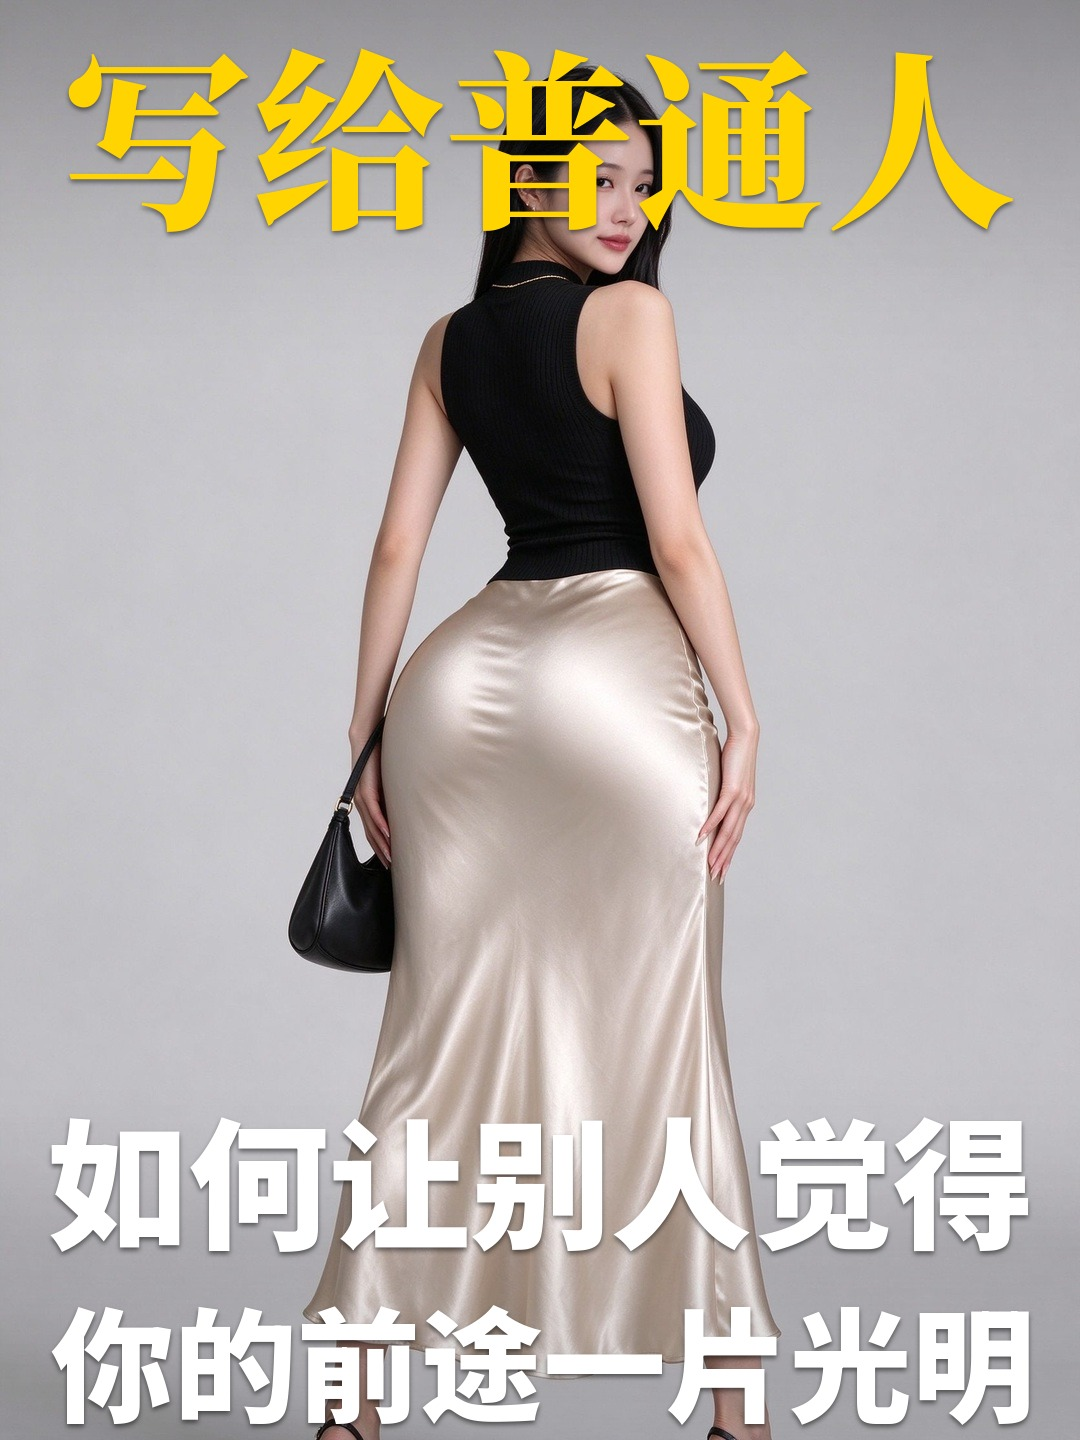
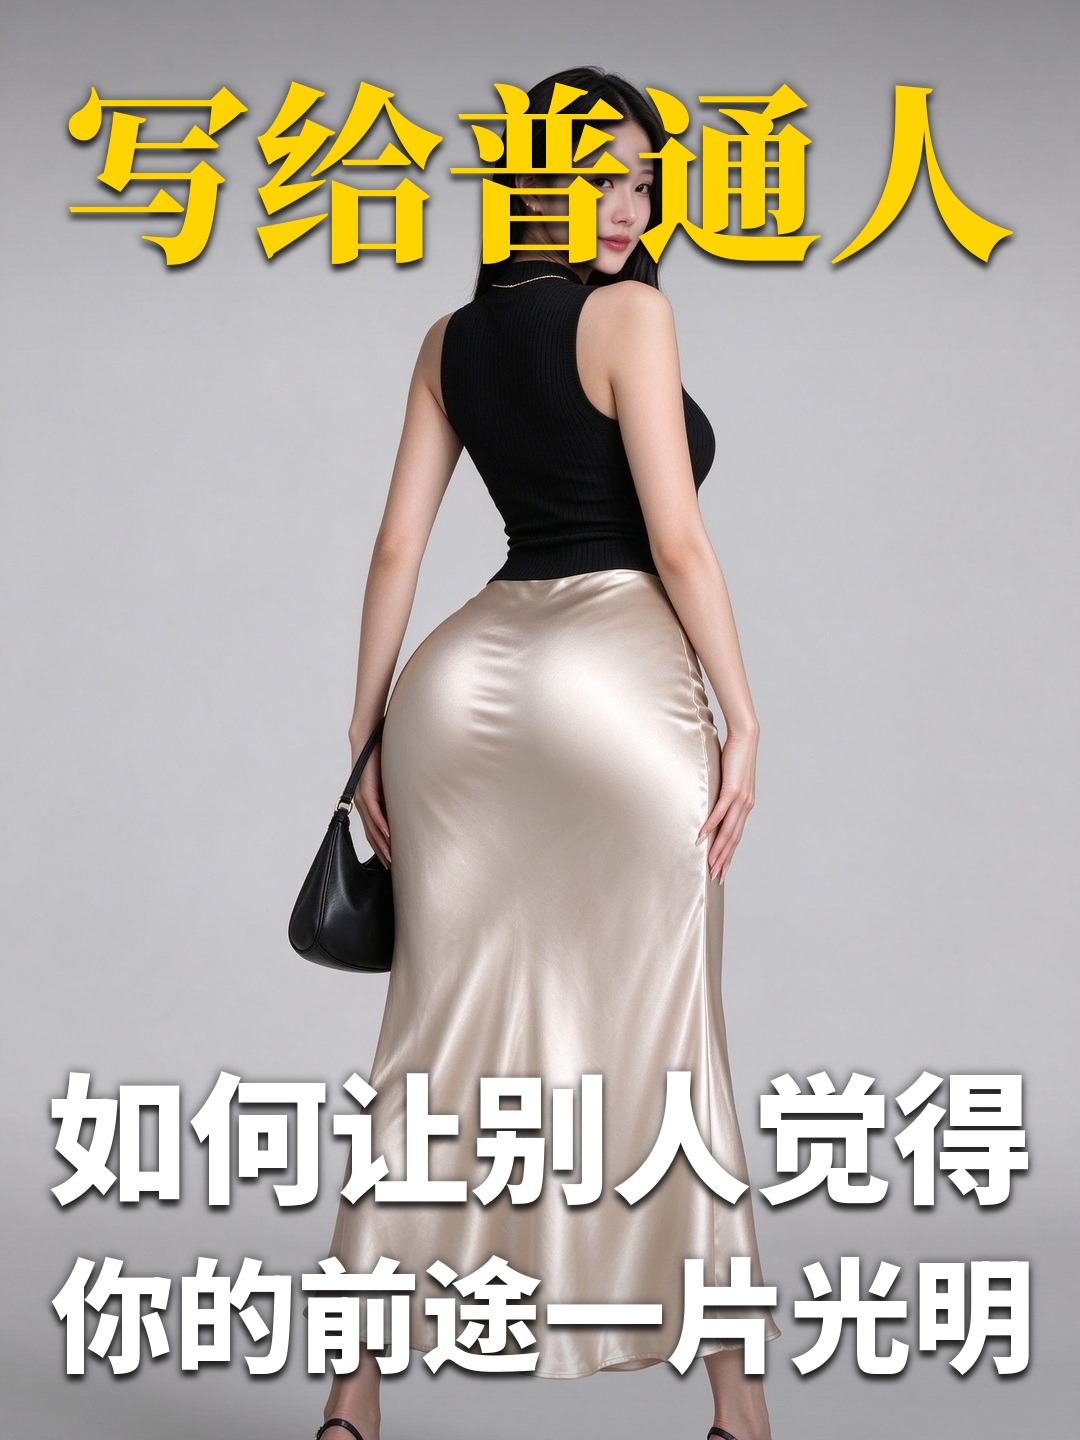
fix: 样式02 上下边距放宽 + 文字改双层阴影
- 顶行顶边距 0.0335 H → 0.056 H，末行底边距 0.0106 H → 0.045 H（原来底边只留 15px，贴边难受）
- 底行行间空隙 0.037 H → 0.034 H，配合边距调整保持底块整体重心
- 阴影从单层硬投影改为双层：
  ① 暗晕（形态学膨胀 0.0035 W + 模糊 0.004 W，黑 100/255，无偏移）——贴笔画外沿，把字从任何底色上托出来
  ② 实影（下移 0.005 H，模糊 0.003 W，黑 185/255）——给字厚度
- 关键：光晕必须先膨胀再模糊，且模糊半径小于笔画间隙（4px @1080），否则 192px 宋体的字内缝会被灰雾填平
- 同步更新风格卡参数与踩坑记录、README 设计常量
- 重出 02 展示图与 all-styles 总览

Changed region(s): [[0.0306, 0.7188, 0.9778, 1.0], [0.0611, 0.0312, 0.9472, 0.1875]]

diff --git a/tools/style02_edge_anchor.py b/tools/style02_edge_anchor.py
@@ -9,10 +9,10 @@
 设计常量（相对画布 W / H 的比例，换画布也成立）
   顶行目标宽   0.875 W       ← 硬约束：顶行墨迹宽度，与文案长短无关
   底行目标宽   0.905 W       ← 硬约束：底部每行墨迹宽度
-  顶行顶边距   0.0335 H      ← 墨迹顶边到画布顶
-  底行底边距   0.0106 H      ← 末行墨迹底边到画布底
-  底行行间空隙 0.037 H       ← 上一行墨迹底 → 下一行墨迹顶
-  投影         黑 130/255，偏移 0.0021 H，模糊 0.0022 W（硬投影，不加灰雾）
+  顶行顶边距   0.056 H       ← 墨迹顶边到画布顶（不贴边）
+  底行底边距   0.045 H       ← 末行墨迹底边到画布底（不贴边）
+  底行行间空隙 0.034 H       ← 上一行墨迹底 → 下一行墨迹顶
+  投影         双层：扩散影（膨胀 0.0035 W + 模糊 0.004 W，黑 125/255）+ 厚度影（下移 0.0042 H，模糊 0.0035 W，黑 170/255）
   遮罩         --scrim auto：按上下带亮度自动压 0-120 的黑渐变，浅底必压、深底不压
 
 字体分工（照抄参考图）
@@ -45,9 +45,9 @@ BOT_FONTS = {
 
 TOP_W = 0.875          # 顶行墨迹宽 / 画布宽
 BOT_W = 0.905          # 底行墨迹宽 / 画布宽
-TOP_INSET = 0.0335     # 顶行墨迹顶边距 / 画布高
-BOT_INSET = 0.0106     # 末行墨迹底边距 / 画布高
-BOT_GAP = 0.037        # 底行行间空隙 / 画布高
+TOP_INSET = 0.0560     # 顶行墨迹顶边距 / 画布高（留够呼吸，不贴边）
+BOT_INSET = 0.0450     # 末行墨迹底边距 / 画布高（留够呼吸，不贴边）
+BOT_GAP = 0.034        # 底行行间空隙 / 画布高
 
 MIN_SIZE = 0.055       # 字号下限 / 画布宽
 MAX_SIZE = 0.300       # 字号上限 / 画布宽
@@ -55,9 +55,12 @@ MAX_SIZE = 0.300       # 字号上限 / 画布宽
 ACCENT = '#FFD400'     # 与样式01 同色：黄做钩子
 INK = '#FFFFFF'        # 白做结论
 
-SHADOW_ALPHA = 130
-SHADOW_DY = 0.0021      # 偏移 / 画布高
-SHADOW_BLUR = 0.0022    # 模糊 / 画布宽
+SHADOW_ALPHA = 185     # 厚度影：向下偏的实影
+SHADOW_DY = 0.0050     # 偏移 / 画布高
+SHADOW_BLUR = 0.0030   # 模糊 / 画布宽
+HALO_ALPHA = 100       # 扩散影：无偏移的柔和暗晕，任何底图上都能把字托出来
+HALO_BLUR = 0.0040     # 模糊 / 画布宽（必须小于笔画间隙，否则字内缝会被糊死）
+HALO_DILATE = 0.0035   # 先膨胀再模糊：光晕贴着笔画外沿走，不外溢
 
 
 def hex2rgba(h, alpha=255):
@@ -293,12 +296,21 @@ def render(base, out, split=None, top=None, bottom=None,
 
     if shadow:
         alpha = stage.getchannel('A')
+        # ① 扩散影：按字形轮廓向外糊一圈柔和暗晕，浅底/花底都能把字托出来
+        halo = Image.new('RGBA', (W, H), (0, 0, 0, 0))
+        halo.paste((0, 0, 0, HALO_ALPHA), (0, 0), alpha)
+        # 先小膨胀再模糊：光晕紧贴笔画外沿，不会往字内的笔画缝里灌
+        dil = max(3, int(round(W * HALO_DILATE)) | 1)
+        halo = halo.filter(ImageFilter.MaxFilter(min(dil, 9)))
+        halo = halo.filter(ImageFilter.GaussianBlur(max(1.5, W * HALO_BLUR)))
+        img = Image.alpha_composite(img, halo)
+        # ② 厚度影：向下偏移的实影，给字一点压出来的重量
         sil = Image.new('RGBA', (W, H), (0, 0, 0, 0))
         sil.paste((0, 0, 0, SHADOW_ALPHA), (0, 0), alpha)
         sh = Image.new('RGBA', (W, H), (0, 0, 0, 0))
         dy = max(2, round(H * SHADOW_DY))
         sh.alpha_composite(sil, (0, dy))
-        sh = sh.filter(ImageFilter.GaussianBlur(max(2, W * SHADOW_BLUR)))
+        sh = sh.filter(ImageFilter.GaussianBlur(max(1, round(W * SHADOW_BLUR))))
         img = Image.alpha_composite(img, sh)
 
     img = Image.alpha_composite(img, stage)

diff --git a/style-library/02-上下压边.md b/style-library/02-上下压边.md
@@ -1,6 +1,6 @@
 # 风格卡：上下压边
 
-> **核心画像**：真人实拍底图 + **顶部一行大标签 / 底部两行大字**，上下一夹，**中间整块留给人脸和身体**。字是裸字——没有描边、没有色块，靠极淡的投影和上下渐变遮罩保证可读。
+> **核心画像**：真人实拍底图 + **顶部一行大标签 / 底部两行大字**，上下一夹，**中间整块留给人脸和身体**。字是裸字——没有描边、没有色块，靠双层阴影（贴轮廓的暗晕 + 向下实影）和上下渐变遮罩保证可读。
 >
 > 和样式01 正好是镜像关系：01 把字堆在画面正中压住脸，02 把字推到画面两条边上，中间一点不碰。
 
@@ -36,13 +36,16 @@ core:
 canvas: 3:4（1080 × 1440），全库统一
 top_width:  0.875 W      # 顶行墨迹宽度，硬约束
 bot_width:  0.905 W      # 底行每行墨迹宽度，硬约束
-top_inset:  0.0335 H     # 顶行墨迹顶边 → 画布顶
-bot_inset:  0.0106 H     # 末行墨迹底边 → 画布底
-line_gap:   0.037 H      # 底行之间：上一行墨迹底 → 下一行墨迹顶
+top_inset:  0.056 H      # 顶行墨迹顶边 → 画布顶（留呼吸，不贴边）
+bot_inset:  0.045 H      # 末行墨迹底边 → 画布底（留呼吸，不贴边）
+line_gap:   0.034 H      # 底行之间：上一行墨迹底 → 下一行墨迹顶
 align:      水平居中（按墨迹算，不按字身框）
 size_range: 0.055 W ≤ 字号 ≤ 0.300 W
-shadow:      黑 130/255，偏移 0.0021 H，模糊 0.0022 W   # 硬投影，不糊
-scrim:       auto        # 上下各压一层黑渐变，按底图亮度自动定 0-120
+
+# 阴影是两层叠出来的，缺一层都不够看
+halo:       形态学膨胀 0.0035 W → 模糊 0.004 W，黑 100/255，无偏移   # 贴轮廓的暗晕
+shadow:     偏移 0.005 H，模糊 0.003 W，黑 185/255                 # 向下实影，给厚度
+scrim:      auto        # 上下各压一层黑渐变，按底图亮度自动定 0-120
 ```
 
 ## 配色
@@ -66,7 +69,7 @@ python tools/style02_edge_anchor.py --base 底图.png --out 封面.png \
 ... --accent "#FF3B30" --bot-font yahei --offset-y -30
 ```
 
-脚本会自动处理：裁 3:4 → 每行二分反解字号让墨迹撑满目标宽度 → 实绘后按真实宽度回修 → 顶行贴顶、底行自下而上堆叠 → 硬投影 → 自动遮罩 → 输出。跑完会打印每行字号、墨迹尺寸、宽占比和 y 位置。
+脚本会自动处理：裁 3:4 → 每行二分反解字号让墨迹撑满目标宽度 → 实绘后按真实宽度回修 → 顶行留 5.6% 边距、底行自下而上堆叠并留 4.5% 边距 → 双层阴影 → 自动遮罩 → 输出。跑完会打印每行字号、墨迹尺寸、宽占比和 y 位置。
 
 ## 不要做
 
@@ -78,6 +81,9 @@ python tools/style02_edge_anchor.py --base 底图.png --out 封面.png \
 
 ## 踩坑记录
 
-- 投影必须**硬**（模糊 ≈ 2px）。用 7px 的软投影，白字边缘会拖出一圈灰雾，缩略图看像脏了。
+- 阴影要**两层**，一层不够：只做向下实影，浅底上字仍会发飘；只做大半径光晕，宋体的笔画缝会被灰雾糊死。正确做法是「小膨胀 + 小模糊」的贴轮廓暗晕，再叠一层向下实影。
+- 光晕的模糊半径**必须小于笔画间隙**（≈ 4px @1080）。我一开始用 8.6px，192px 的宋体字内缝直接被填平，字糊成一团。
+- 光晕必须**先膨胀再模糊**。直接对 alpha 做高斯模糊，暗影会往笔画内部渗，字看起来发灰发脏。
+- 边距不能照抄参考图的实测值（顶 3.35% / 底 1.06%），那是截图被裁过的结果。上下各留 5% 左右才不贴边。
 - 遮罩按底图亮度自动算：`(max(顶部均值, 底部均值) - 120) × 0.85`，上限 120。深色底图算出来是 0，一点不压。
 - 底行是**自下而上**排的：先钉末行底边，再往上叠。反过来排会因为末行字号不同导致底边不齐。

diff --git a/README.md b/README.md
@@ -122,14 +122,17 @@ python tools/style03_white_bar.py \
 ```
 顶行宽度      0.875 W                # 硬约束：顶行墨迹宽，与字数无关
 底行宽度      0.905 W                # 硬约束：底行每行墨迹宽
-顶行顶边距    0.0335 H
-底行底边距    0.0106 H
-底行行间空隙  0.037 H                # 上一行墨迹底 → 下一行墨迹顶
-投影          黑 130/255，偏移 0.0021 H，模糊 0.0022 W   # 硬投影，不糊
+顶行顶边距    0.056 H                 # 留呼吸，不贴边
+底行底边距    0.045 H                 # 留呼吸，不贴边
+底行行间空隙  0.034 H                # 上一行墨迹底 → 下一行墨迹顶
+暗晕          膨胀 0.0035 W → 模糊 0.004 W，黑 100/255，无偏移
+实影          偏移 0.005 H，模糊 0.003 W，黑 185/255
 遮罩          auto：按上下带亮度算 0-120
 ```
 
 **每行独立反解字号**：底行 4 个字那行一定比 7 个字那行大，这是对的——宽度齐了，大小才有节奏。底行自下而上排，先钉末行底边再往上叠。
+
+**阴影是两层**：贴轮廓的暗晕负责把字从任何底色上托出来，向下实影负责厚度。只做一层都不够——只有实影，浅底上字会飘；只有大半径光晕，宋体的笔画缝会被灰雾糊死。光晕必须先膨胀再模糊，否则暗影会往笔画内部渗。
 
 ## 设计常量（样式03）
 
